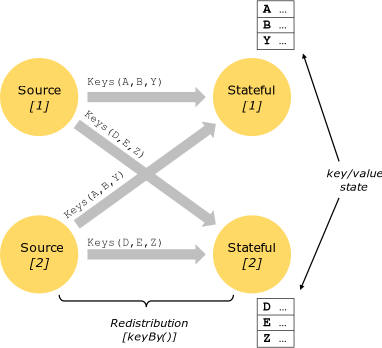
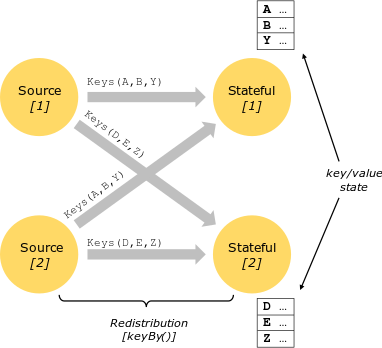
add state_partitioning slide and possibili miglioramenti

diff --git a/slide/presentazioneTesi.tex b/slide/presentazioneTesi.tex
@@ -1,6 +1,4 @@
 \documentclass{beamer}
-\usepackage{csquotes} 
-
 \usetheme{Padova}
 
 \title{Componente di controllo per l'elaborazione in tempo reale di flussi di dati aggregati}
@@ -135,12 +133,30 @@
 		\end{figure}  \vspace{.5em}
 			
 			\item \textbf{Operatori}  \vspace{.5em}
-			\item \textbf{Alta disponibilità e recovery}
+			\item \textbf{Alta disponibilità e recovery} \vspace{.2em}
 			\begin{itemize}
 				\item \textit{Checkpoint} \vspace{.5em}
 				\item \textit{Savepoint} \vspace{.5em}
 				\end{itemize} \vspace{.5em}
 		\end{itemize}
+	\end{frame}
+	
+	\begin{frame}{Apache Flink}
+		\textbf{Scalabilità}
+		\vspace{.2em}
+		\begin{figure}[htb]
+			%\hspace{-2em}
+    			\begin{minipage}[t]{0.45\textwidth}
+    			
+       		\centering 
+    			\includegraphics[width=1\columnwidth]{../immagini/tecnologieUtilizzate/flink/state_partitioning.png}
+    			\end{minipage}
+    			\hfill
+    			\begin{minipage}[t]{0.45\textwidth}
+    				\includegraphics[width=1.25\columnwidth]{../immagini/slide/pfExample.png}
+       		\end{minipage}
+       		\hspace{1em}
+		\end{figure}		
 	\end{frame}
 	
 	\section{Implementazione}
@@ -211,6 +227,18 @@
     		 \centering
     		\includegraphics[width=1.7cm]{../immagini/slide/100-percent.png}
 		\end{figure}
+	\end{frame}
+	
+	\begin{frame}{Considerazioni}
+		\begin{block}{Possibili miglioramenti ed estensioni}
+			\begin{itemize}
+				\item \textbf{Nuovi detector:} 
+					\begin{itemize}
+						\item \textit{Unsupervised}: tramite algoritmo di \textbf{apprendimento non supervisionato} \vspace{.5em}
+						\item \textit{Rule based}: basato su \textbf{regole} decise dall'utente \vspace{.5em}
+					\end{itemize}
+			\end{itemize}
+		\end{block}
 	\end{frame}
 	
 	\subsection{Conoscenze acquisite}
